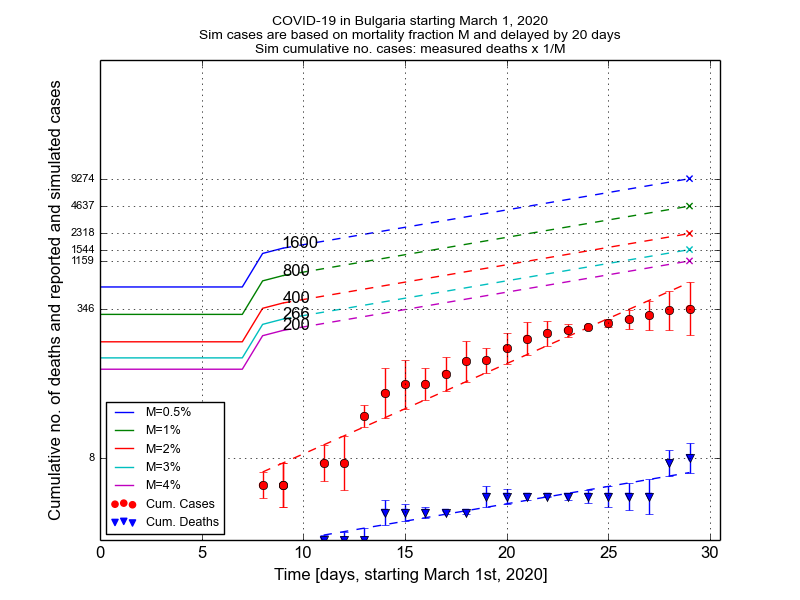
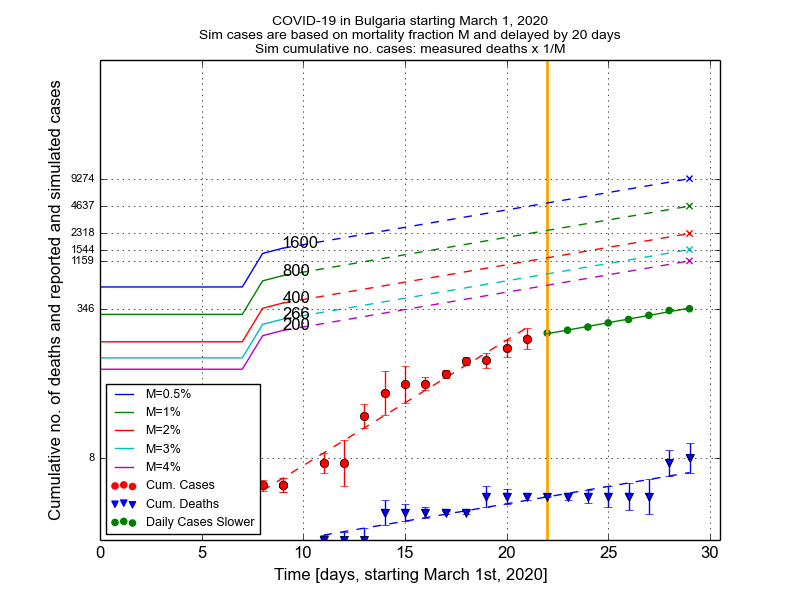
flattened Bulgaria and trial Romanian deaths

diff --git a/cov_lin_models_refactored.py b/cov_lin_models_refactored.py
@@ -36,6 +36,7 @@ JOHN_HOPKINS = "https://raw.githubusercontent.com/CSSEGISandData/COVID-19/master
 # slowing countries: countries that show a consistent slowing trend
 # slowing down value = date in March that is roughly the start of slowdown
 SLOWDOWN = {"Belgium": 13,
+            "Bulgaria": 22,
             "Denmark": 13, 
             "Finland": 14,
             "France": 16,
@@ -54,6 +55,7 @@ SLOWDOWN = {"Belgium": 13,
 SLOWDOWN_DEATHS = {"France": 20,
                    "Germany": 20,
                    "Italy": 21,
+                   "Romania": 27,
                    "Spain": 15,
                    "UK": 21}
 
